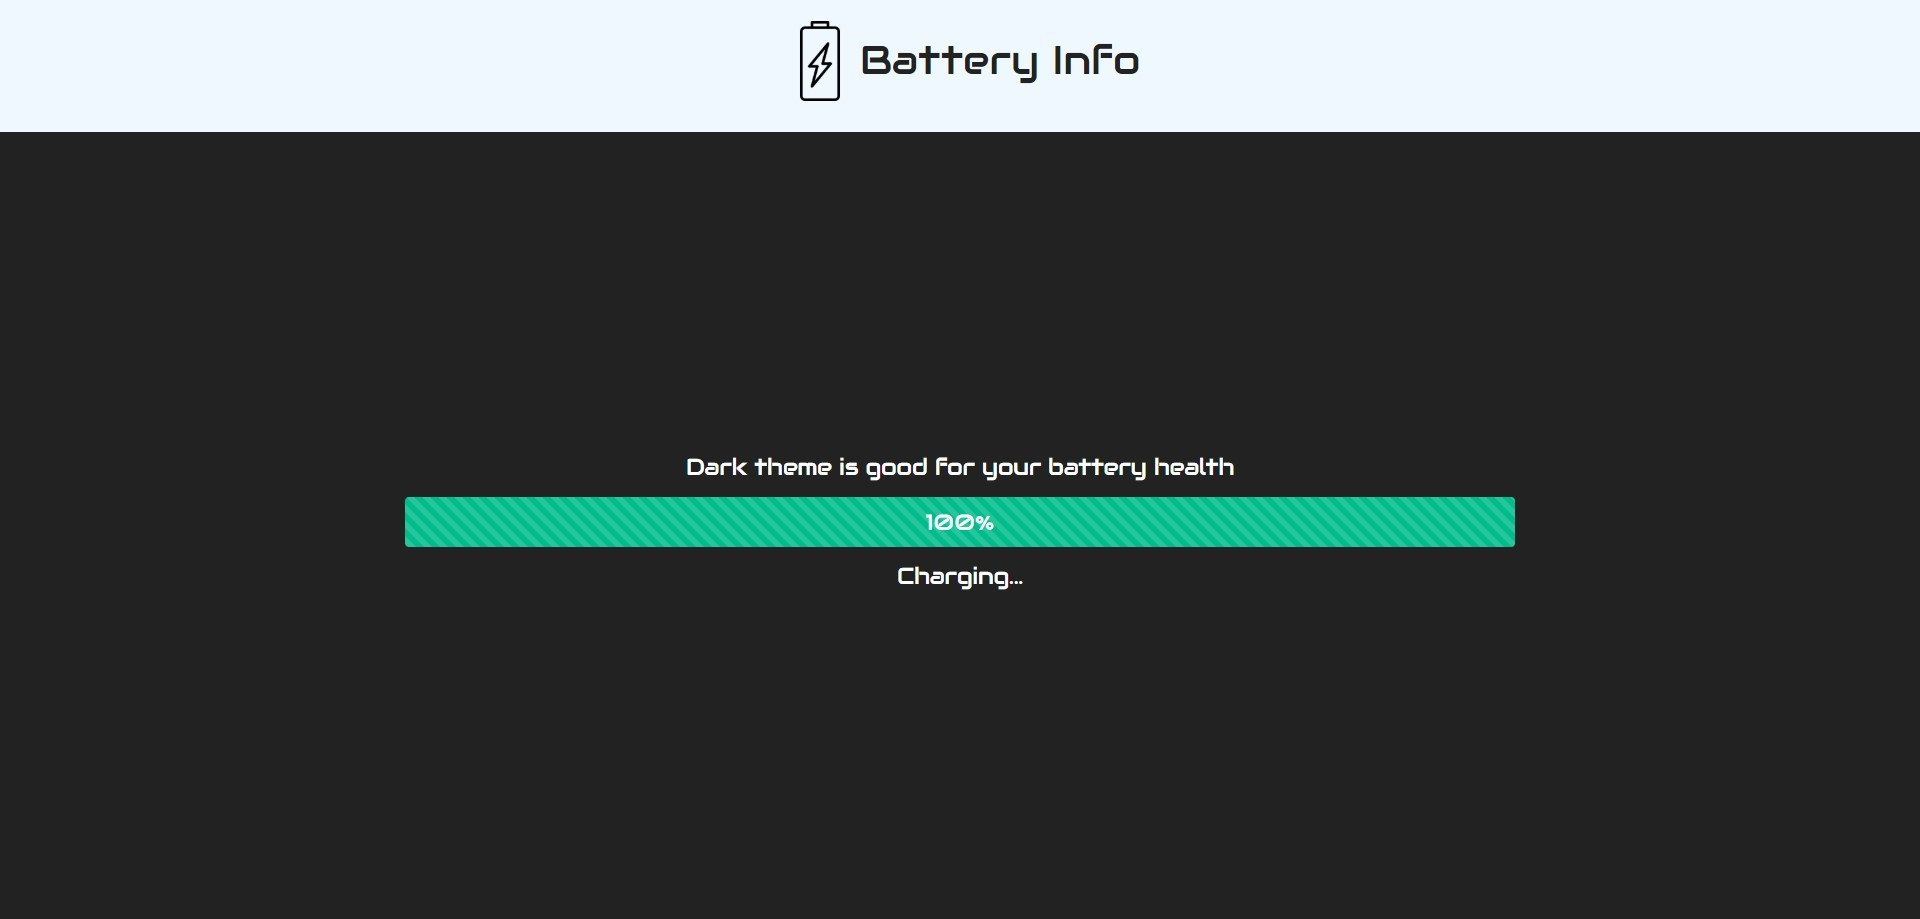
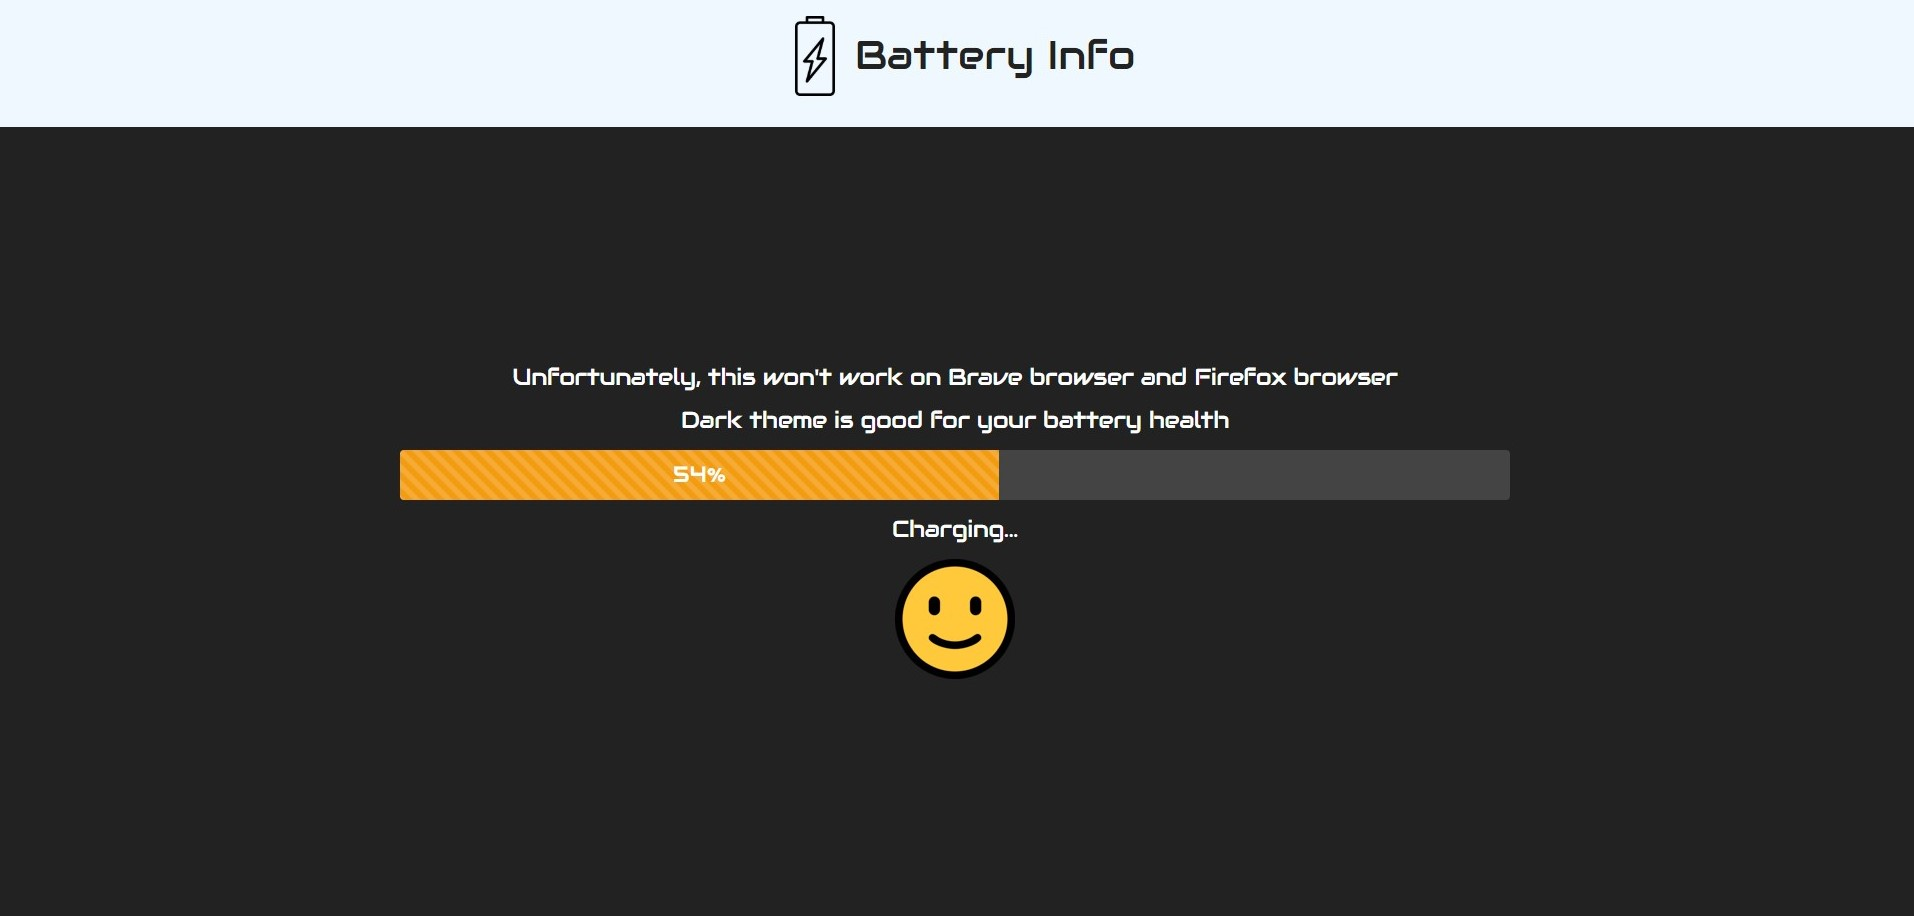
small commit

Changed region(s): [[0.185, 0.3974, 0.8015, 0.7642], [0.0, 0.0, 1.0, 0.1528]]

diff --git a/index.html b/index.html
@@ -53,7 +53,8 @@
         </h4>
         <div class="supported">
           <h4 class="text-center mb-3">
-            Unfortunately, this won't work on Brave browser and Firefox browser
+            Unfortunately, this won't work on Brave browser and
+            <i class="fab fa-firefox-browser"></i> Firefox browser
           </h4>
           <h4 class="text-center mb-3">
             Dark theme is good for your battery health
@@ -87,6 +88,7 @@
     <script
       src="https://kit.fontawesome.com/a1b417789e.js"
       crossorigin="anonymous"
+      SameSite
     ></script>
     <script src="./javascript/functions.js"></script>
     <script src="./app.js"></script>
